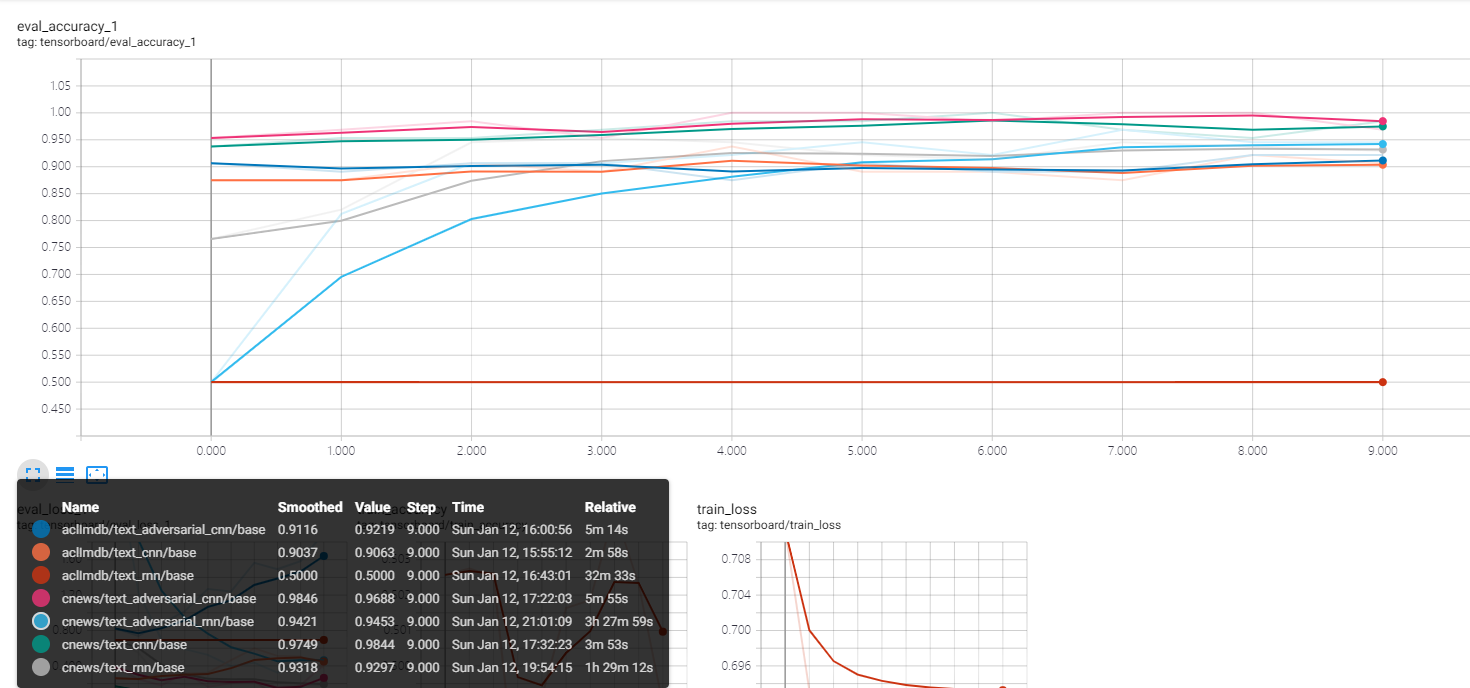
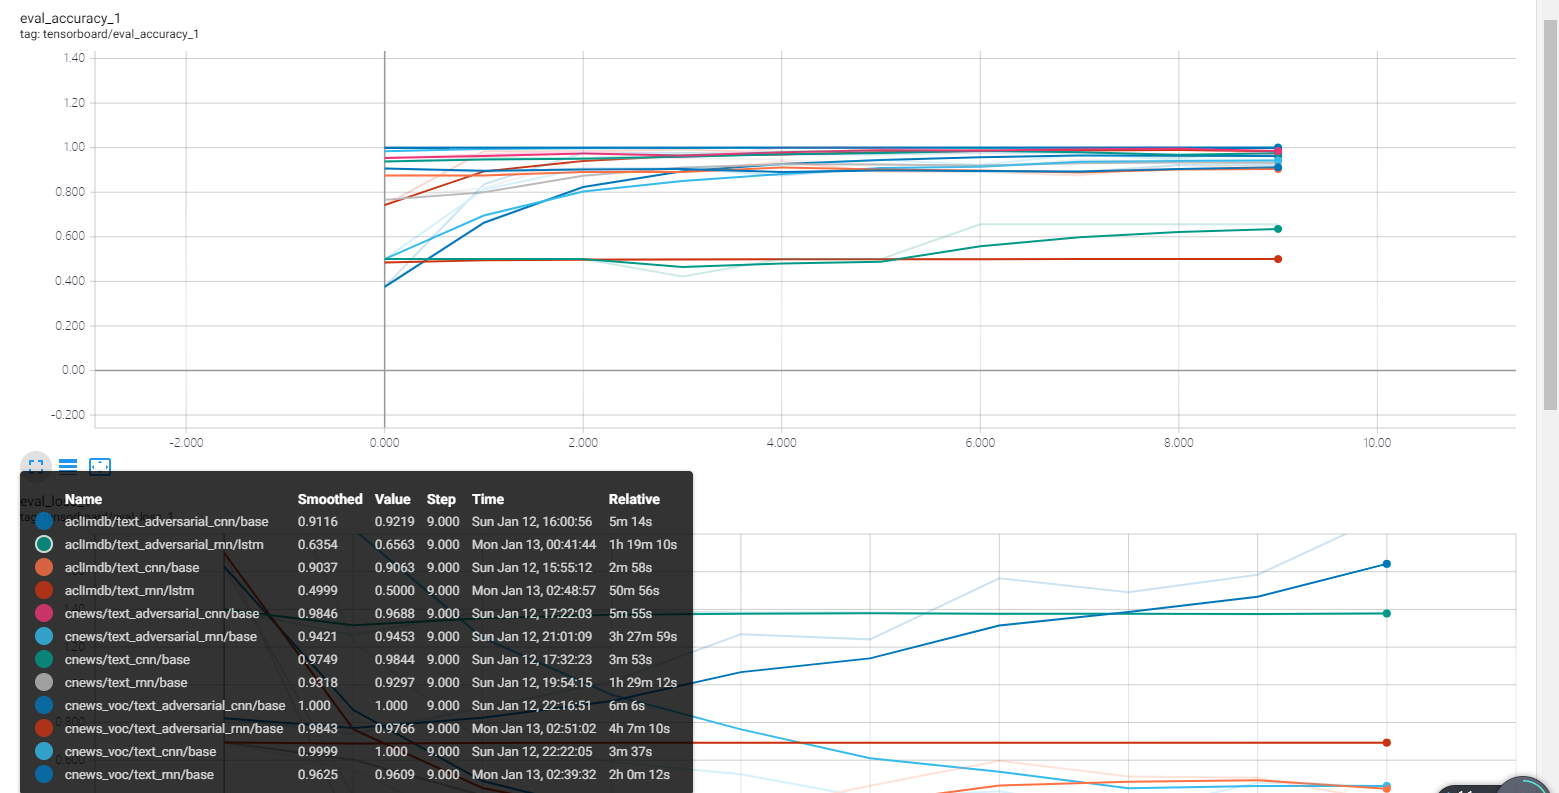
update result

diff --git a/train.py b/train.py
@@ -43,7 +43,6 @@ def train(args):
 
 if __name__ == '__main__':
     os.environ['CUDA_VISIBLE_DEVICES'] = '3'
-    config = get_config('adversarial/aclImdb_rnn_binary')
     # config = get_config('adversarial/aclImdb_rnn')
     # config = get_config('adversarial/aclImdb_cnn')
     # config = get_config('adversarial/cnews_rnn')
@@ -54,13 +53,10 @@ if __name__ == '__main__':
     # config = get_config('cnn/aclImdb')
     # config = get_config('cnn/cnews')
     # config = get_config('cnn/cnews_voc')
-    # config = get_config('rnn/aclImdb')
+    config = get_config('rnn/aclImdb')
     # config = get_config('rnn/cnews')
     # config = get_config('rnn/cnews_voc')
-    config['tag'] = 'base'
-    # config['batch_size'] = 256
-    # config['model']['learning_rate'] = 0.01
-    # config['num_epochs'] = 50
+    config['tag'] = 'lstm'
     # config['tag'] = 'lstm_without_embedding'
-    # config['model']['rnn_type'] = 'lstm'
+    config['model']['rnn_type'] = 'lstm'
     train(config)

diff --git a/test.py b/test.py
@@ -46,12 +46,12 @@ def evaluate_model(args):
 
 
 if __name__ == '__main__':
-    config = get_config('adversarial/aclImdb_rnn')
+    # config = get_config('adversarial/aclImdb_rnn')
     # config = get_config('adversarial/aclImdb_cnn')
     # config = get_config('adversarial/cnews_rnn')
     # config = get_config('adversarial/cnews_cnn')
     # config = get_config('adversarial/cnews_voc_cnn')
-    # config = get_config('adversarial/cnews_voc_rnn')
+    config = get_config('adversarial/cnews_voc_rnn')
 
     # config = get_config('cnn/aclImdb')
     # config = get_config('cnn/cnews')

diff --git a/README.md b/README.md
@@ -328,7 +328,34 @@ weighted avg       1.00      1.00      1.00      6464
 2.2 rnn: 
 
 ```
+              precision    recall  f1-score   support
 
+          体育       1.00      1.00      1.00       350
+          娱乐       1.00      1.00      1.00       900
+          家居       0.90      0.90      0.90       500
+          房产       1.00      0.94      0.97       800
+          教育       1.00      1.00      1.00       450
+          时尚       0.93      1.00      0.97       700
+          时政       0.94      1.00      0.97       850
+          游戏       0.93      0.88      0.90       800
+          科技       0.88      1.00      0.93       350
+          财经       1.00      0.93      0.96       700
+
+    accuracy                           0.96      6400
+   macro avg       0.96      0.96      0.96      6400
+weighted avg       0.96      0.96      0.96      6400
+
+混淆矩阵
+[[350   0   0   0   0   0   0   0   0   0]
+ [  0 900   0   0   0   0   0   0   0   0]
+ [  0   0 450   0   0   0   0  50   0   0]
+ [  0   0   0 750   0   0   0   0  50   0]
+ [  0   0   0   0 450   0   0   0   0   0]
+ [  0   0   0   0   0 700   0   0   0   0]
+ [  0   0   0   0   0   0 850   0   0   0]
+ [  0   0  50   0   0   0  50 700   0   0]
+ [  0   0   0   0   0   0   0   0 350   0]
+ [  0   0   0   0   0  50   0   0   0 650]]
 ```
 
 2.3 adversarial cnn: 
@@ -367,7 +394,34 @@ weighted avg       1.00      1.00      1.00      6464
 2.4 adversarial rnn: 
 
 ```
+              precision    recall  f1-score   support
 
+          体育       1.00      1.00      1.00       350
+          娱乐       1.00      1.00      1.00       900
+          家居       1.00      1.00      1.00       500
+          房产       1.00      1.00      1.00       800
+          教育       1.00      1.00      1.00       450
+          时尚       1.00      1.00      1.00       700
+          时政       0.94      1.00      0.97       850
+          游戏       1.00      0.94      0.97       800
+          科技       1.00      1.00      1.00       350
+          财经       1.00      1.00      1.00       700
+
+    accuracy                           0.99      6400
+   macro avg       0.99      0.99      0.99      6400
+weighted avg       0.99      0.99      0.99      6400
+
+混淆矩阵
+[[350   0   0   0   0   0   0   0   0   0]
+ [  0 900   0   0   0   0   0   0   0   0]
+ [  0   0 500   0   0   0   0   0   0   0]
+ [  0   0   0 800   0   0   0   0   0   0]
+ [  0   0   0   0 450   0   0   0   0   0]
+ [  0   0   0   0   0 700   0   0   0   0]
+ [  0   0   0   0   0   0 850   0   0   0]
+ [  0   0   0   0   0   0  50 750   0   0]
+ [  0   0   0   0   0   0   0   0 350   0]
+ [  0   0   0   0   0   0   0   0   0 700]]
 ```
 
 #### 3.1.2 英文数据集的结果
@@ -424,19 +478,18 @@ weighted avg       0.93      0.92      0.92      2496
 
 4. adversarial rnn: 
 ```
-  'precision', 'predicted', average, warn_for)
               precision    recall  f1-score   support
 
-         neg       0.00      0.00      0.00      1248
-         pos       0.50      1.00      0.67      1248
+         neg       0.63      0.75      0.69      1248
+         pos       0.69      0.56      0.62      1248
 
-    accuracy                           0.50      2496
-   macro avg       0.25      0.50      0.33      2496
-weighted avg       0.25      0.50      0.33      2496
+    accuracy                           0.66      2496
+   macro avg       0.66      0.66      0.65      2496
+weighted avg       0.66      0.66      0.65      2496
 
 混淆矩阵
-[[   0 1248]
- [   0 1248]]
+[[936 312]
+ [546 702]]
 ```
 
 ### 3.2 训练可视化的结果
